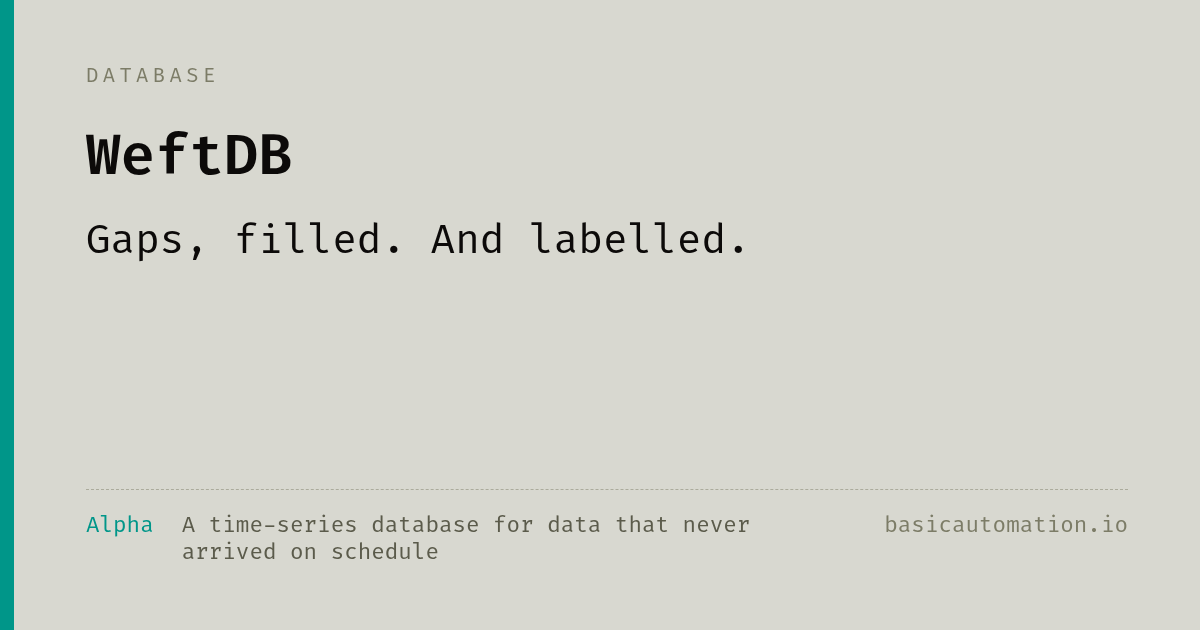
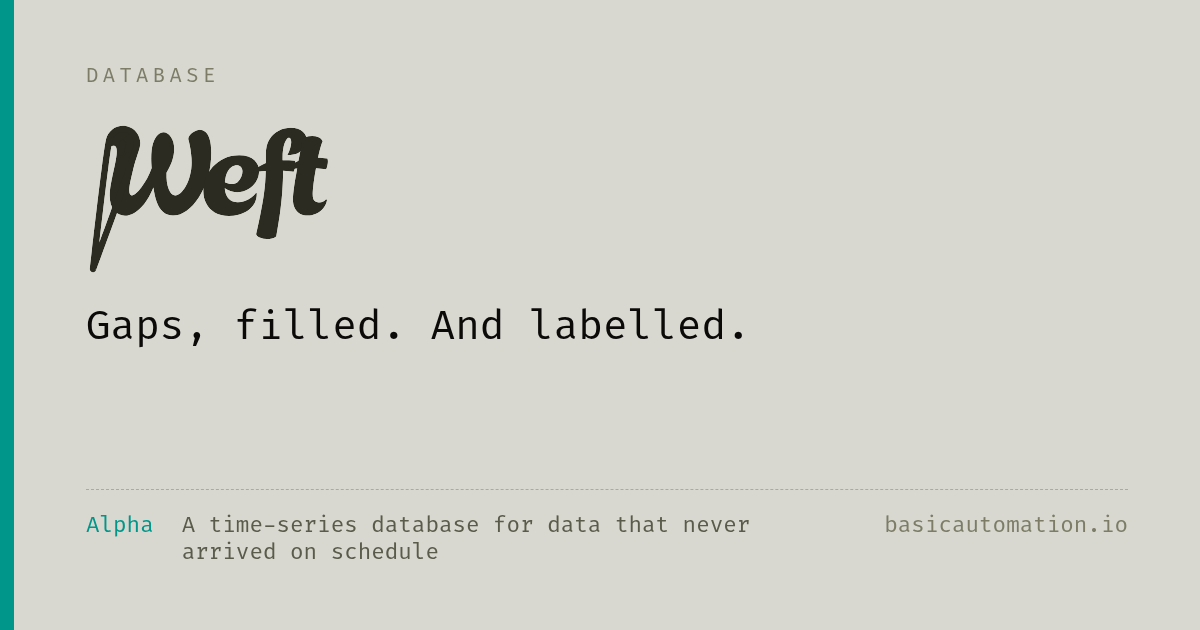
design: the Weft mark, and the set settles on ink
WeftDB gets its wordmark — a bold brush script in the same family as onyums.
Colourised the usual way: the script takes the theme foreground, the halo
around it takes the page ground so it reads as knocked out of the letters the
way the original's white did.

Only the fills below the <mask> are touched. The black and white inside it
are luminance logic, not colour; tinting them would have erased the halo
rather than recoloured it.

Skidbladnir comes off blue-500 and onto ink. Seen beside the other five it
was the only mark not built on the theme foreground, and the odd one out in a
set reads as a mistake rather than as variety. Each project still carries its
own accent — artiqwest's lime underline, the onion's rust sprout, Nisaba's
gold wheat — the ink is what makes them a family.

The hero lamp drops to 132%, with the vertical offset recomputed to -116px so
it stays centred on the headline.

Changed region(s): [[0.0617, 0.181, 0.6167, 0.4222], [0.185, 0.4825, 0.6167, 0.5429], [0.0617, 0.4825, 0.1542, 0.5429]]

diff --git a/app/layouts/default.vue b/app/layouts/default.vue
@@ -39,8 +39,8 @@ const FADE = [
         // are laid out in fixed terms, so a pixel offset holds; a percentage
         // would drift as the band changes height.
         backgroundImage: 'url(/bg/hero.webp)',
-        backgroundSize: 'auto 148%',
-        backgroundPosition: 'right 0 top -168px',
+        backgroundSize: 'auto 132%',
+        backgroundPosition: 'right 0 top -116px',
         maskImage: FADE,
         WebkitMaskImage: FADE,
         maskComposite: 'intersect',

diff --git a/data/projects.ts b/data/projects.ts
@@ -222,6 +222,7 @@ async fn main() -> Result<(), Box<dyn std::error::Error>> {
     slug: 'weftdb',
     repo: 'weftdb',
     name: 'WeftDB',
+    logo: '/projects/weftdb.svg',
     tagline: 'A time-series database for data that never arrived on schedule',
     hero: 'Gaps, filled. And labelled.',
     summary:
